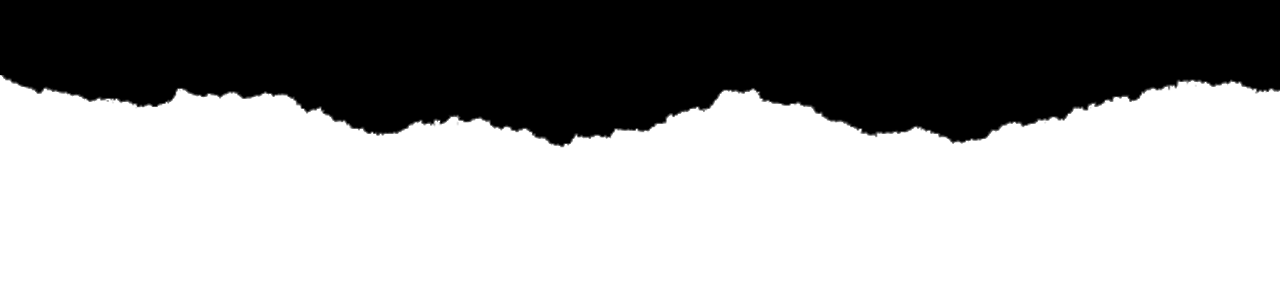
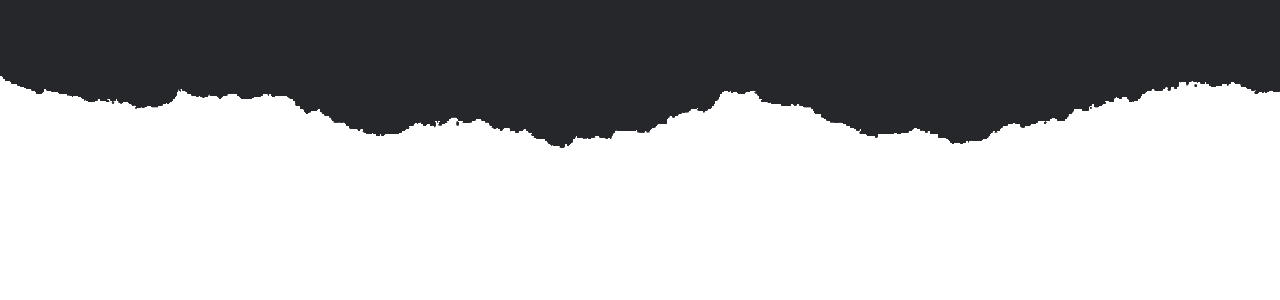
dark mode correction

diff --git a/script/index.js b/script/index.js
@@ -7,22 +7,22 @@ document.querySelector('.blob-btn').addEventListener('click', ()=>{
 const prefersColorScheme = window.matchMedia('(prefers-color-scheme: dark)');
 
 if(prefersColorScheme.matches){
-    document.querySelector('body').style.backgroundColor = '#000'
+    document.querySelector('body').style.backgroundColor = '#202124'
     document.querySelector('.aic_title').style.color = '#fff'
-    document.querySelector('.nav-wave').innerHTML = '<path fill="#000" fill-opacity="1" d="M0,128L80,160C160,192,320,256,480,240C640,224,800,128,960,101.3C1120,75,1280,117,1360,138.7L1440,160L1440,320L1360,320C1280,320,1120,320,960,320C800,320,640,320,480,320C320,320,160,320,80,320L0,320Z"></path>'
-    document.querySelector('.insc-wave').innerHTML = '<path fill="#000" fill-opacity="1" d="M0,128L80,160C160,192,320,256,480,240C640,224,800,128,960,101.3C1120,75,1280,117,1360,138.7L1440,160L1440,320L1360,320C1280,320,1120,320,960,320C800,320,640,320,480,320C320,320,160,320,80,320L0,320Z"></path>'
-    document.querySelector('.comite_card').style.backgroundColor = '#000'
+    document.querySelector('.nav-wave').innerHTML = '<path fill="#202124" fill-opacity="1" d="M0,128L80,160C160,192,320,256,480,240C640,224,800,128,960,101.3C1120,75,1280,117,1360,138.7L1440,160L1440,320L1360,320C1280,320,1120,320,960,320C800,320,640,320,480,320C320,320,160,320,80,320L0,320Z"></path>'
+    document.querySelector('.insc-wave').innerHTML = '<path fill="#202124" fill-opacity="1" d="M0,128L80,160C160,192,320,256,480,240C640,224,800,128,960,101.3C1120,75,1280,117,1360,138.7L1440,160L1440,320L1360,320C1280,320,1120,320,960,320C800,320,640,320,480,320C320,320,160,320,80,320L0,320Z"></path>'
+    document.querySelector('.comite_card').style.backgroundColor = '#202124'
     document.getElementById('title').style.color = '#fff'
-    document.querySelector('.modal_about').style.backgroundColor = '#000'
+    document.querySelector('.modal_about').style.backgroundColor = '#202124'
     document.querySelector('.modal_about').style.webkitBoxShadow = '5px 5px 15px 5px rgba(255, 255, 255, 0.10)'
     document.querySelector('.modal_about').style.boxShadow = '5px 5px 15px 5px rgba(255, 255, 255, 0.10)'
-    document.querySelector('.imprensa').style.backgroundColor = '#000'
-    document.querySelector('.about').style.backgroundColor = '#000'
+    document.querySelector('.imprensa').style.backgroundColor = '#202124'
+    document.querySelector('.about').style.backgroundColor = '#202124'
     document.querySelector('.paper_wave').style.backgroundImage = 'url(./../img/paperwave_black.png)'
-    document.querySelector('.inscricoes').style.backgroundColor = '#000'
-    document.querySelector('.text_aic').style.backgroundColor = '#000'
-    document.querySelector('.picture_aic').style.backgroundColor = '#000'
-    document.querySelector('.background_aic').style.backgroundColor = '#000'
+    document.querySelector('.inscricoes').style.backgroundColor = '#202124'
+    document.querySelector('.text_aic').style.backgroundColor = '#202124'
+    document.querySelector('.picture_aic').style.backgroundColor = '#202124'
+    document.querySelector('.background_aic').style.backgroundColor = '#202124'
     document.querySelector('.journal_2021').style.backgroundImage = 'url(./../icon/journal_icon_white.png)'
     document.querySelector('.button').style.borderColor = '#fff'
 }else{
